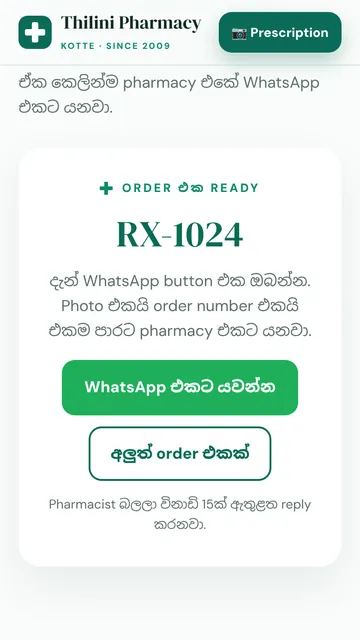
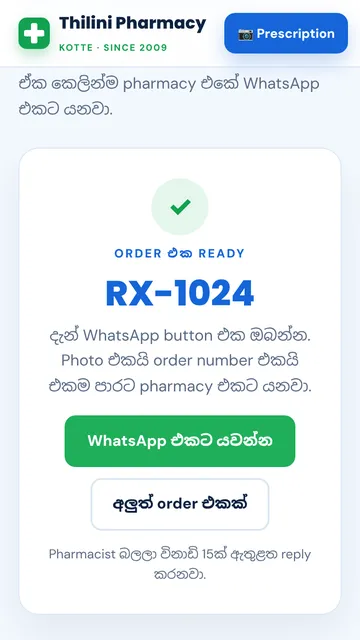
Main page pharmacy card in pharmacy blue
Claude-Session: https://claude.ai/code/session_014hhhgNq1iwgxcrcLyip1GY

Changed region(s): [[0.1222, 0.2812, 0.8556, 0.9062], [0.0306, 0.0, 0.9778, 0.1875], [0.275, 0.2812, 0.3056, 0.3125]]

diff --git a/index.html b/index.html
@@ -400,13 +400,13 @@ footer{padding-block:28px 36px;color:var(--ink-2);font-size:14px;font-family:var
 .shot.tlr .ph2 img{display:block;width:100%;height:100%;object-fit:cover;object-position:top}
 .shot.tlr .p1{display:none}
 .shot.tlr .p2{right:16px;top:26px;transform:rotate(5deg)}
-.shot.phm{background:repeating-linear-gradient(90deg,rgba(200,232,106,.14) 0 1px,transparent 1px 20px),radial-gradient(420px 260px at 85% 10%,rgba(200,232,106,.28),transparent 60%),linear-gradient(160deg,#0E5A49,#06372D);color:#fff;padding:22px}
+.shot.phm{background:repeating-linear-gradient(90deg,rgba(255,255,255,.10) 0 1px,transparent 1px 20px),radial-gradient(420px 260px at 85% 10%,rgba(255,213,74,.25),transparent 60%),linear-gradient(160deg,#1E78E8,#0D47A1);color:#fff;padding:22px}
 .shot.phm .nv{position:relative;z-index:1;max-width:58%}
 .shot.phm .t{font-family:"DM Serif Display","Yeseva One",Georgia,serif;font-weight:400;font-size:44px;line-height:.95}
-.shot.phm .t small{display:block;margin-top:6px;font-family:ui-monospace,"IBM Plex Mono",Menlo,monospace;font-size:12.5px;font-weight:600;letter-spacing:.3em;color:#C8E86A}
-.shot.phm .s{font-family:"Archivo",sans-serif;font-weight:800;font-size:17px;margin-top:10px;color:#D3EDE3;line-height:1.2}
-.shot.phm .ok{display:inline-block;margin-top:12px;background:#C8E86A;color:#06372D;font-weight:800;font-size:12.5px;border-radius:99px;padding:4px 10px}
-.shot.phm .ph2{position:absolute;width:112px;aspect-ratio:9/16;border-radius:14px;overflow:hidden;box-shadow:0 14px 30px rgba(0,0,0,.4);border:3px solid #04261F;background:#04261F}
+.shot.phm .t small{display:block;margin-top:6px;font-family:ui-monospace,"IBM Plex Mono",Menlo,monospace;font-size:12.5px;font-weight:600;letter-spacing:.3em;color:#FFD54A}
+.shot.phm .s{font-family:"Archivo",sans-serif;font-weight:800;font-size:17px;margin-top:10px;color:#DCE9FF;line-height:1.2}
+.shot.phm .ok{display:inline-block;margin-top:12px;background:#FFD54A;color:#0D2F6B;font-weight:800;font-size:12.5px;border-radius:99px;padding:4px 10px}
+.shot.phm .ph2{position:absolute;width:112px;aspect-ratio:9/16;border-radius:14px;overflow:hidden;box-shadow:0 14px 30px rgba(0,0,0,.4);border:3px solid #0A2A5C;background:#0A2A5C}
 .shot.phm .ph2 img{display:block;width:100%;height:100%;object-fit:cover;object-position:top}
 .shot.phm .p1{display:none}
 .shot.phm .p2{right:16px;top:26px;transform:rotate(5deg)}
@@ -618,7 +618,7 @@ footer{padding-block:28px 36px;color:var(--ink-2);font-size:14px;font-family:var
       <div class="work">
         <article class="case wide">
           <div class="shot phm" aria-hidden="true">
-            <div class="nv"><div class="t">Thilini<small>PHARMACY</small></div><div class="s">Send a photo of the prescription.<br>We'll have it ready.</div><span class="ok">RX-1024 · Ready 6:30 pm</span></div>
+            <div class="nv"><div class="t">Thilini<small>PHARMACY</small></div><div class="s">Snap the prescription.<br>Pick it up ready.</div><span class="ok">RX-1024 · Ready 6:30 pm</span></div>
             <div class="ph2 p1"><img src="assets/hero/pharmacy.webp" alt="" width="360" height="640" loading="lazy"></div>
             <div class="ph2 p2"><img src="assets/hero/pharmacy_2.webp" alt="" width="360" height="640" loading="lazy"></div>
           </div>
